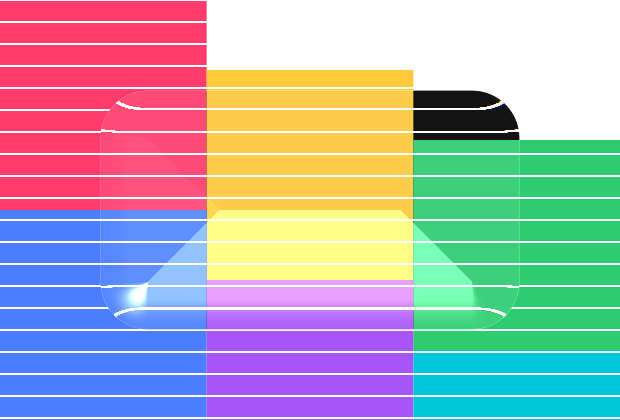
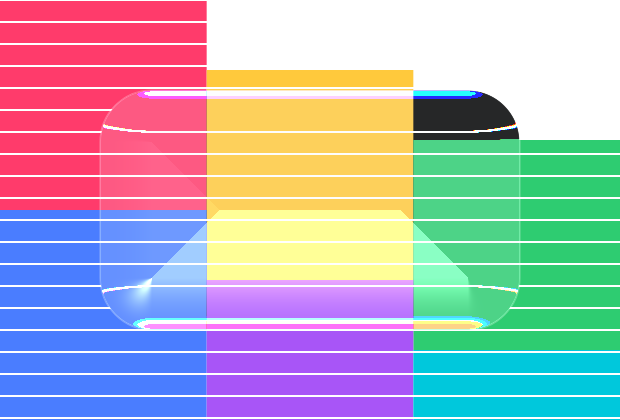
里程碑4：跟手高光（光标定光照方向）+ 点击穿透（T 切换）+ 复用 surface/缓冲

diff --git a/src/main.rs b/src/main.rs
@@ -29,10 +29,11 @@ use windows::Win32::Graphics::Gdi::{
     GetDC, GetDIBits, ReleaseDC, SelectObject, AC_SRC_ALPHA, AC_SRC_OVER, BITMAPINFO,
     BITMAPINFOHEADER, BLENDFUNCTION, DIB_RGB_COLORS, HBITMAP, HDC, HGDIOBJ, SRCCOPY,
 };
+use windows::Win32::UI::Input::KeyboardAndMouse::{GetAsyncKeyState, VK_ESCAPE, VK_T};
 use windows::Win32::UI::WindowsAndMessaging::{
-    GetWindowLongPtrW, GetWindowRect, SetWindowDisplayAffinity, SetWindowLongPtrW,
+    GetCursorPos, GetWindowLongPtrW, GetWindowRect, SetWindowDisplayAffinity, SetWindowLongPtrW,
     UpdateLayeredWindow, GWL_EXSTYLE, ULW_ALPHA, WDA_EXCLUDEFROMCAPTURE, WS_EX_LAYERED,
-    WS_EX_TOOLWINDOW,
+    WS_EX_TOOLWINDOW, WS_EX_TRANSPARENT,
 };
 use winit::application::ApplicationHandler;
 use winit::dpi::LogicalSize;
@@ -193,6 +194,7 @@ fn draw_frame(
     effect: &RuntimeEffect,
     t: f32,
     backdrop: Option<&skia_safe::Image>,
+    light_angle: f32,
 ) {
     // ---- 背景 ----
     // 有真实抓屏就用它；没有就画测试图案（离屏调试用）。
@@ -254,22 +256,24 @@ fn draw_frame(
         rect_h,
         W as f32 / 2.0,
         H as f32 / 2.0,
-        48.0,
-        30.0,
-        40.0,
-        1.42,
-        0.04,
-        2.2,
-        0.08,
+        52.0,        // corner
+        38.0,        // bezel：边缘折射带
+        34.0,        // thickness：玻璃厚度
+        1.42,        // ior
+        0.05,        // dispersion
+        light_angle, // 跟手：光源方向 = 光标相对玻璃中心的方位角
+        0.10,        // tintAmount
         0.0,
+        0.90,
         0.92,
         0.95,
-        0.98,
         1.0,
     ];
     let bytes: Vec<u8> = uniform.iter().flat_map(|f| f.to_le_bytes()).collect();
 
     if let Some(shader) = effect.make_shader(Data::new_copy(&bytes), &[bg_shader.into()], None) {
+        static ONCE: std::sync::Once = std::sync::Once::new();
+        ONCE.call_once(|| eprintln!("[调试] 着色器创建成功, lightAngle={light_angle:.3}"));
         let mut paint = Paint::default();
         paint.set_shader(shader);
         paint.set_anti_alias(true);
@@ -281,7 +285,18 @@ fn draw_frame(
         );
         // 重新借一次 canvas 画玻璃
         let canvas = surface.canvas();
-        canvas.draw_rrect(RRect::new_rect_xy(rect, 48.0, 48.0), &paint);
+        canvas.draw_rrect(RRect::new_rect_xy(rect, 52.0, 52.0), &paint);
+
+        // 描边：让玻璃边界在白底上也看得见
+        let mut edge = Paint::default();
+        edge.set_style(PaintStyle::Stroke);
+        edge.set_stroke_width(1.2);
+        edge.set_anti_alias(true);
+        edge.set_color(Color::from_argb(70, 255, 255, 255));
+        canvas.draw_rrect(RRect::new_rect_xy(rect, 52.0, 52.0), &edge);
+    } else {
+        static ONCE2: std::sync::Once = std::sync::Once::new();
+        ONCE2.call_once(|| eprintln!("[错误] make_shader 返回 None，uniform {} 字节", bytes.len()));
     }
 }
 
@@ -405,6 +420,18 @@ struct App {
     dib: Option<Dib>,
     hwnd: HWND,
     start: Instant,
+    /// 复用的 Skia 画布（避免每帧重新分配）
+    surface: Option<Surface>,
+    /// 复用的像素缓冲
+    buf: Vec<u8>,
+    /// 是否处于点击穿透状态
+    click_through: bool,
+    /// 上一帧的按键状态，用于边沿检测
+    prev_esc: bool,
+    prev_t: bool,
+    /// 调试：把渲染帧存到这个路径，然后退出
+    dump_path: Option<String>,
+    frames: u32,
 }
 
 impl App {
@@ -415,14 +442,75 @@ impl App {
             dib: None,
             hwnd: HWND(std::ptr::null_mut()),
             start: Instant::now(),
+            surface: None,
+            buf: Vec::new(),
+            click_through: false,
+            prev_esc: false,
+            prev_t: false,
+            dump_path: None,
+            frames: 0,
         }
     }
 
+    /// 切换点击穿透（WS_EX_TRANSPARENT）
+    fn toggle_click_through(&mut self) {
+        self.click_through = !self.click_through;
+        unsafe {
+            let ex = GetWindowLongPtrW(self.hwnd, GWL_EXSTYLE);
+            let new = if self.click_through {
+                ex | WS_EX_TRANSPARENT.0 as isize
+            } else {
+                ex & !(WS_EX_TRANSPARENT.0 as isize)
+            };
+            SetWindowLongPtrW(self.hwnd, GWL_EXSTYLE, new);
+        }
+    }
+
+    /// 用 GetAsyncKeyState 轮询按键，不受窗口焦点影响
+    /// （穿透模式下窗口拿不到焦点，普通键盘事件收不到）
+    fn poll_keys(&mut self) -> bool {
+        unsafe {
+            let esc = (GetAsyncKeyState(VK_ESCAPE.0 as i32) as u16 & 0x8001) != 0;
+            let t = (GetAsyncKeyState(VK_T.0 as i32) as u16 & 0x8001) != 0;
+
+            let mut quit = false;
+            if esc && !self.prev_esc {
+                quit = true;
+            }
+            if t && !self.prev_t {
+                self.toggle_click_through();
+                // 给个视觉反馈：标题栏（这里没有）→ 用控制台输出不了，
+                // 所以靠手感；穿透后鼠标直接穿过窗口
+            }
+            self.prev_esc = esc;
+            self.prev_t = t;
+            quit
+        }
+    }
+
+    /// 光标相对玻璃中心的方位角（弧度），用于跟手高光
+    fn light_angle(&self) -> f32 {
+        let mut pt = POINT::default();
+        unsafe {
+            let _ = GetCursorPos(&mut pt);
+        }
+        let mut rect = windows::Win32::Foundation::RECT::default();
+        unsafe {
+            let _ = GetWindowRect(self.hwnd, &mut rect);
+        }
+        let cx = pt.x - rect.left;
+        let cy = pt.y - rect.top;
+        let dx = cx as f32 - W as f32 / 2.0;
+        let dy = cy as f32 - H as f32 / 2.0;
+        dy.atan2(dx)
+    }
+
     fn draw(&mut self) {
-        let (Some(window), Some(effect), Some(dib)) = (&self.window, &self.effect, &self.dib) else {
+        let (Some(_window), Some(effect), Some(dib)) = (&self.window, &self.effect, &self.dib) else {
             return;
         };
         let t = self.start.elapsed().as_secs_f32();
+        let angle = self.light_angle();
 
         // 1) 抓取窗口背后的桌面（自己已被 WDA_EXCLUDEFROMCAPTURE 排除）
         let mut rect = windows::Win32::Foundation::RECT::default();
@@ -439,9 +527,11 @@ impl App {
             skia_safe::images::raster_from_data(&info, Data::new_copy(&pixels), (W * 4) as usize)
         });
 
-        // 2) 渲染一帧
-        let mut surface = surfaces::raster_n32_premul((W, H)).expect("surface");
-        draw_frame(&mut surface, effect, t, backdrop_img.as_ref());
+        // 2) 渲染一帧（复用 surface，不每帧重新分配）
+        let surface = self
+            .surface
+            .get_or_insert_with(|| surfaces::raster_n32_premul((W, H)).expect("surface"));
+        draw_frame(surface, effect, t, backdrop_img.as_ref(), angle);
 
         // 用 read_pixels 取出来（peek_pixels 在这个版本拿不到数据）
         let info = skia_safe::ImageInfo::new(
@@ -450,17 +540,34 @@ impl App {
             skia_safe::AlphaType::Premul,
             None,
         );
-        let mut buf = vec![0u8; (W * H * 4) as usize];
-        let ok = surface.read_pixels(&info, &mut buf, (W * 4) as usize, (0, 0));
-
-        static ONCE: std::sync::Once = std::sync::Once::new();
-        ONCE.call_once(|| eprintln!("[调试] 第一次 draw: read_pixels={ok}"));
+        // 复用缓冲，避免每帧 vec![0u8; ...] 分配
+        if self.buf.len() != (W * H * 4) as usize {
+            self.buf = vec![0u8; (W * H * 4) as usize];
+        }
+        let ok = surface.read_pixels(&info, &mut self.buf, (W * 4) as usize, (0, 0));
 
         if ok {
-            dib.blit(self.hwnd, &buf);
+            dib.blit(self.hwnd, &self.buf);
         }
 
-        window.request_redraw();
+        // 调试：跑够若干帧后把渲染结果存盘（绕过截屏，看到的就是真实渲染）
+        if let Some(path) = &self.dump_path {
+            self.frames += 1;
+            if self.frames >= 60 {
+                if let Some(surface) = &mut self.surface {
+                    let img = surface.image_snapshot();
+                    if let Some(data) = img.encode(None, EncodedImageFormat::PNG, 100) {
+                        let _ = fs::write(path, data.as_bytes());
+                        println!("已保存渲染帧 -> {path}");
+                    }
+                }
+                std::process::exit(0);
+            }
+        }
+
+        if let Some(w) = &self.window {
+            w.request_redraw();
+        }
     }
 }
 
@@ -497,11 +604,17 @@ impl ApplicationHandler for App {
             );
 
             // 关键：把自己排除在屏幕捕获之外，否则抓背景会抓到自己的玻璃（无限套娃）
-            let ok = SetWindowDisplayAffinity(hwnd, WDA_EXCLUDEFROMCAPTURE);
-            if ok.is_err() {
-                eprintln!("[警告] SetWindowDisplayAffinity 失败，抓背景会出现自反馈");
+            // 调试时用 --no-exclude 关掉，这样才能截到窗口本身来验证渲染
+            let no_exclude = std::env::args().any(|a| a == "--no-exclude");
+            if no_exclude {
+                println!("[调试] 已跳过 WDA_EXCLUDEFROMCAPTURE（截图可以看到窗口）");
             } else {
-                println!("已设置 WDA_EXCLUDEFROMCAPTURE（本窗口不进截图）");
+                let ok = SetWindowDisplayAffinity(hwnd, WDA_EXCLUDEFROMCAPTURE);
+                if ok.is_err() {
+                    eprintln!("[警告] SetWindowDisplayAffinity 失败，抓背景会出现自反馈");
+                } else {
+                    println!("已设置 WDA_EXCLUDEFROMCAPTURE（本窗口不进截图）");
+                }
             }
         }
 
@@ -538,7 +651,12 @@ impl ApplicationHandler for App {
         }
     }
 
-    fn about_to_wait(&mut self, _event_loop: &ActiveEventLoop) {
+    fn about_to_wait(&mut self, event_loop: &ActiveEventLoop) {
+        // 轮询按键（穿透模式下窗口没焦点，收不到普通键盘事件）
+        if self.window.is_some() && self.poll_keys() {
+            event_loop.exit();
+            return;
+        }
         if let Some(w) = &self.window {
             w.request_redraw();
         }
@@ -550,7 +668,7 @@ fn render_offscreen() {
     let effect = RuntimeEffect::make_for_shader(LIQUID_SKSL, None)
         .unwrap_or_else(|e| panic!("SkSL 编译失败: {e}"));
     let mut surface = surfaces::raster_n32_premul((W, H)).expect("surface");
-    draw_frame(&mut surface, &effect, 0.0, None);
+    draw_frame(&mut surface, &effect, 0.0, None, 2.2);
 
     let image = surface.image_snapshot();
     let data = image
@@ -570,5 +688,13 @@ fn main() {
 
     let event_loop = EventLoop::new().expect("事件循环创建失败");
     let mut app = App::new();
+
+    // 调试：--dump-frame <path> 跑 60 帧后把渲染结果存盘退出
+    if let Some(i) = args.iter().position(|a| a == "--dump-frame") {
+        if let Some(p) = args.get(i + 1) {
+            app.dump_path = Some(p.clone());
+        }
+    }
+
     event_loop.run_app(&mut app).expect("运行失败");
 }
